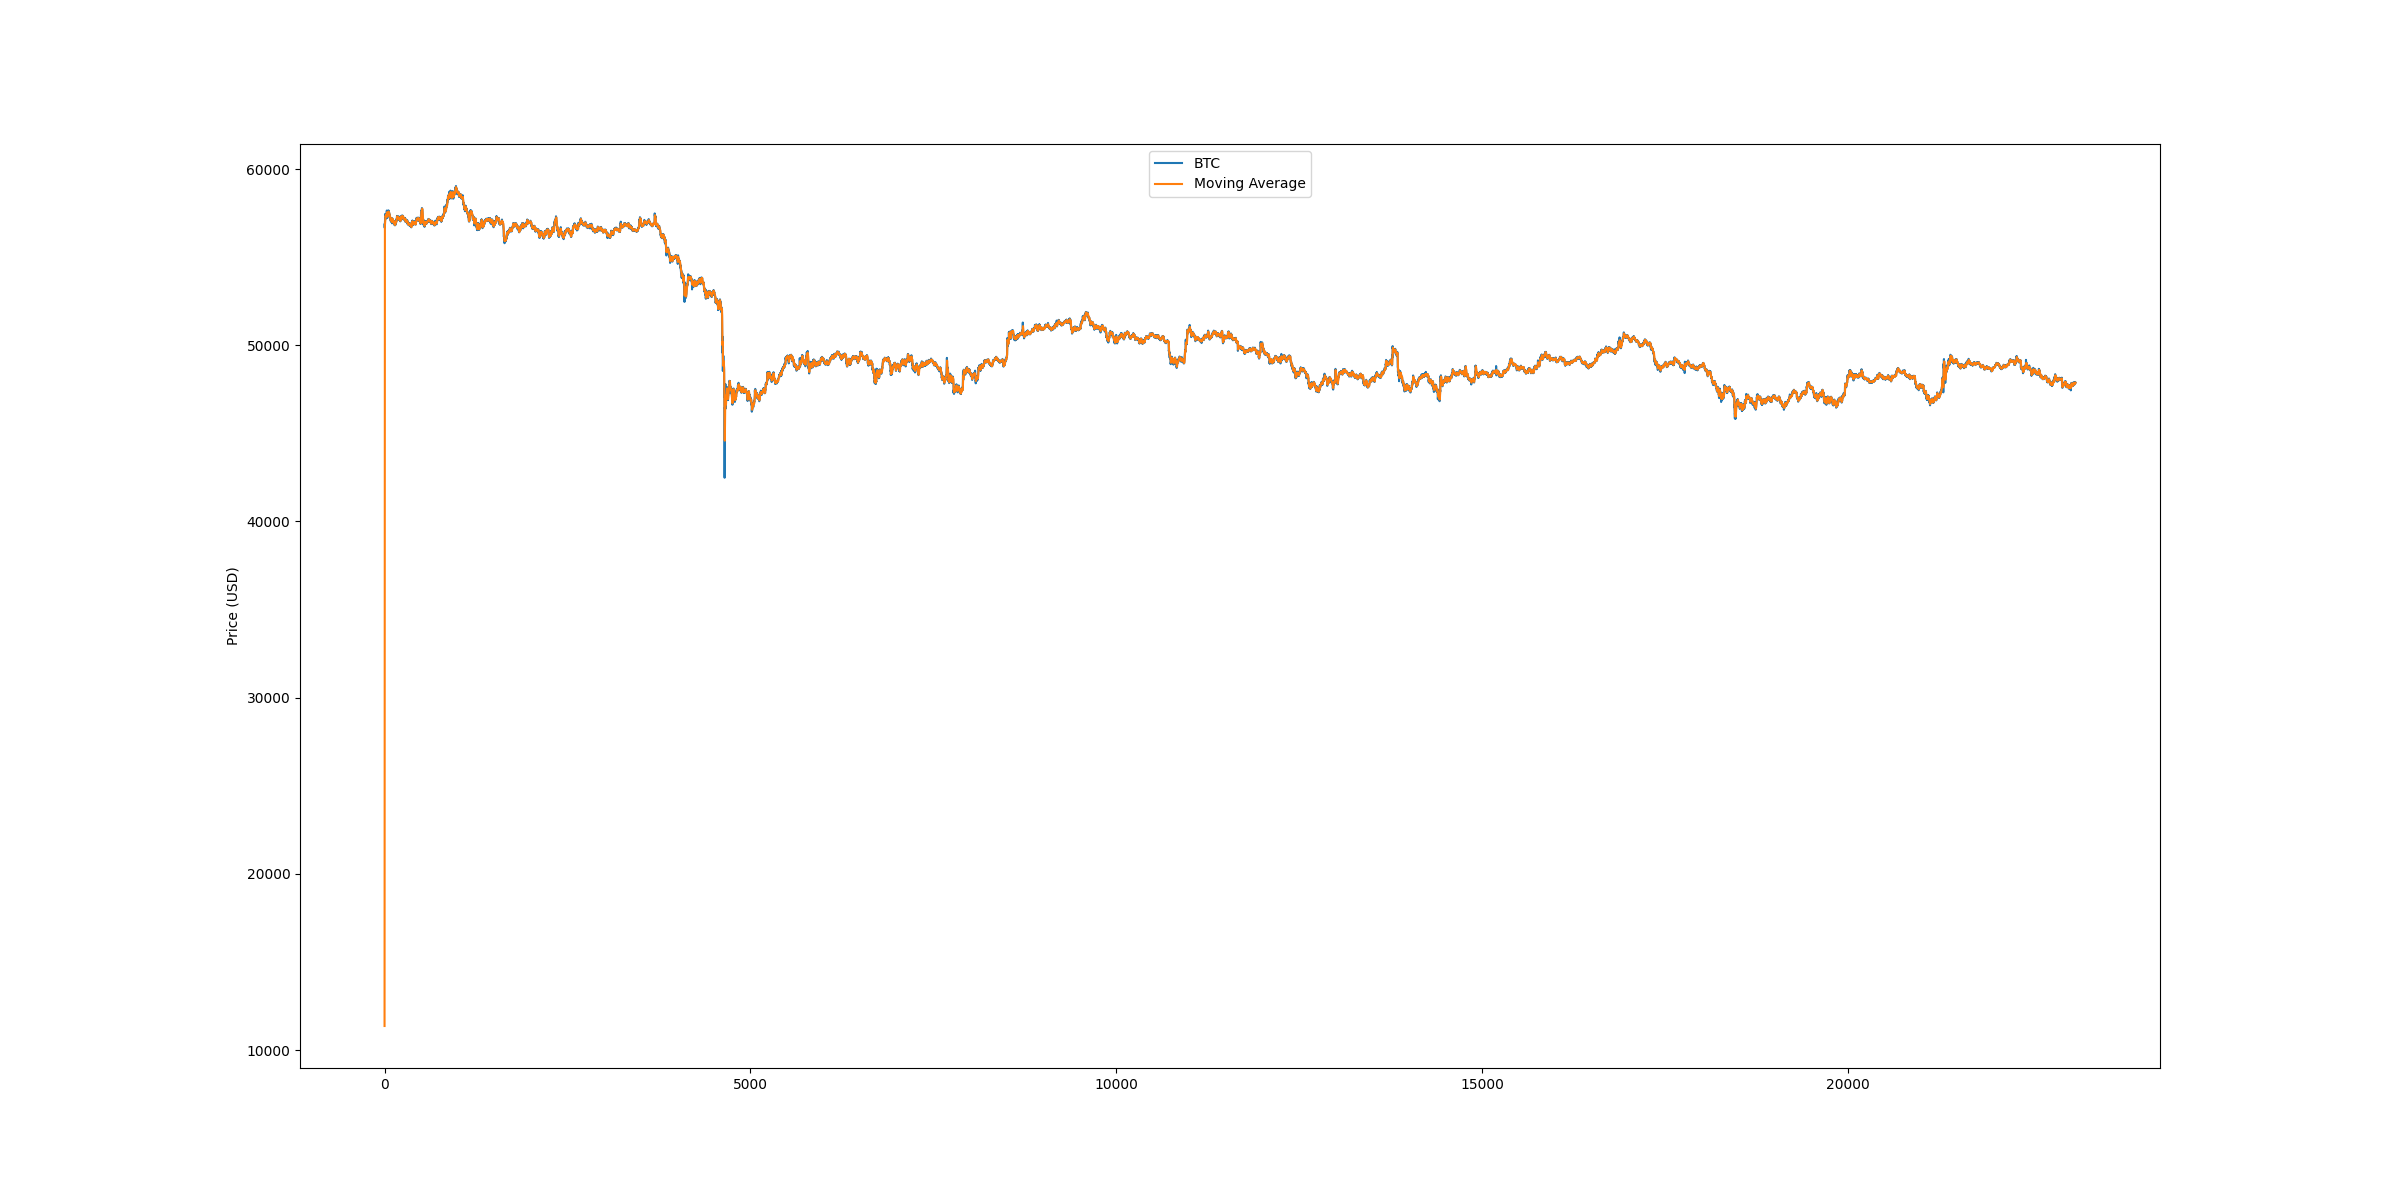
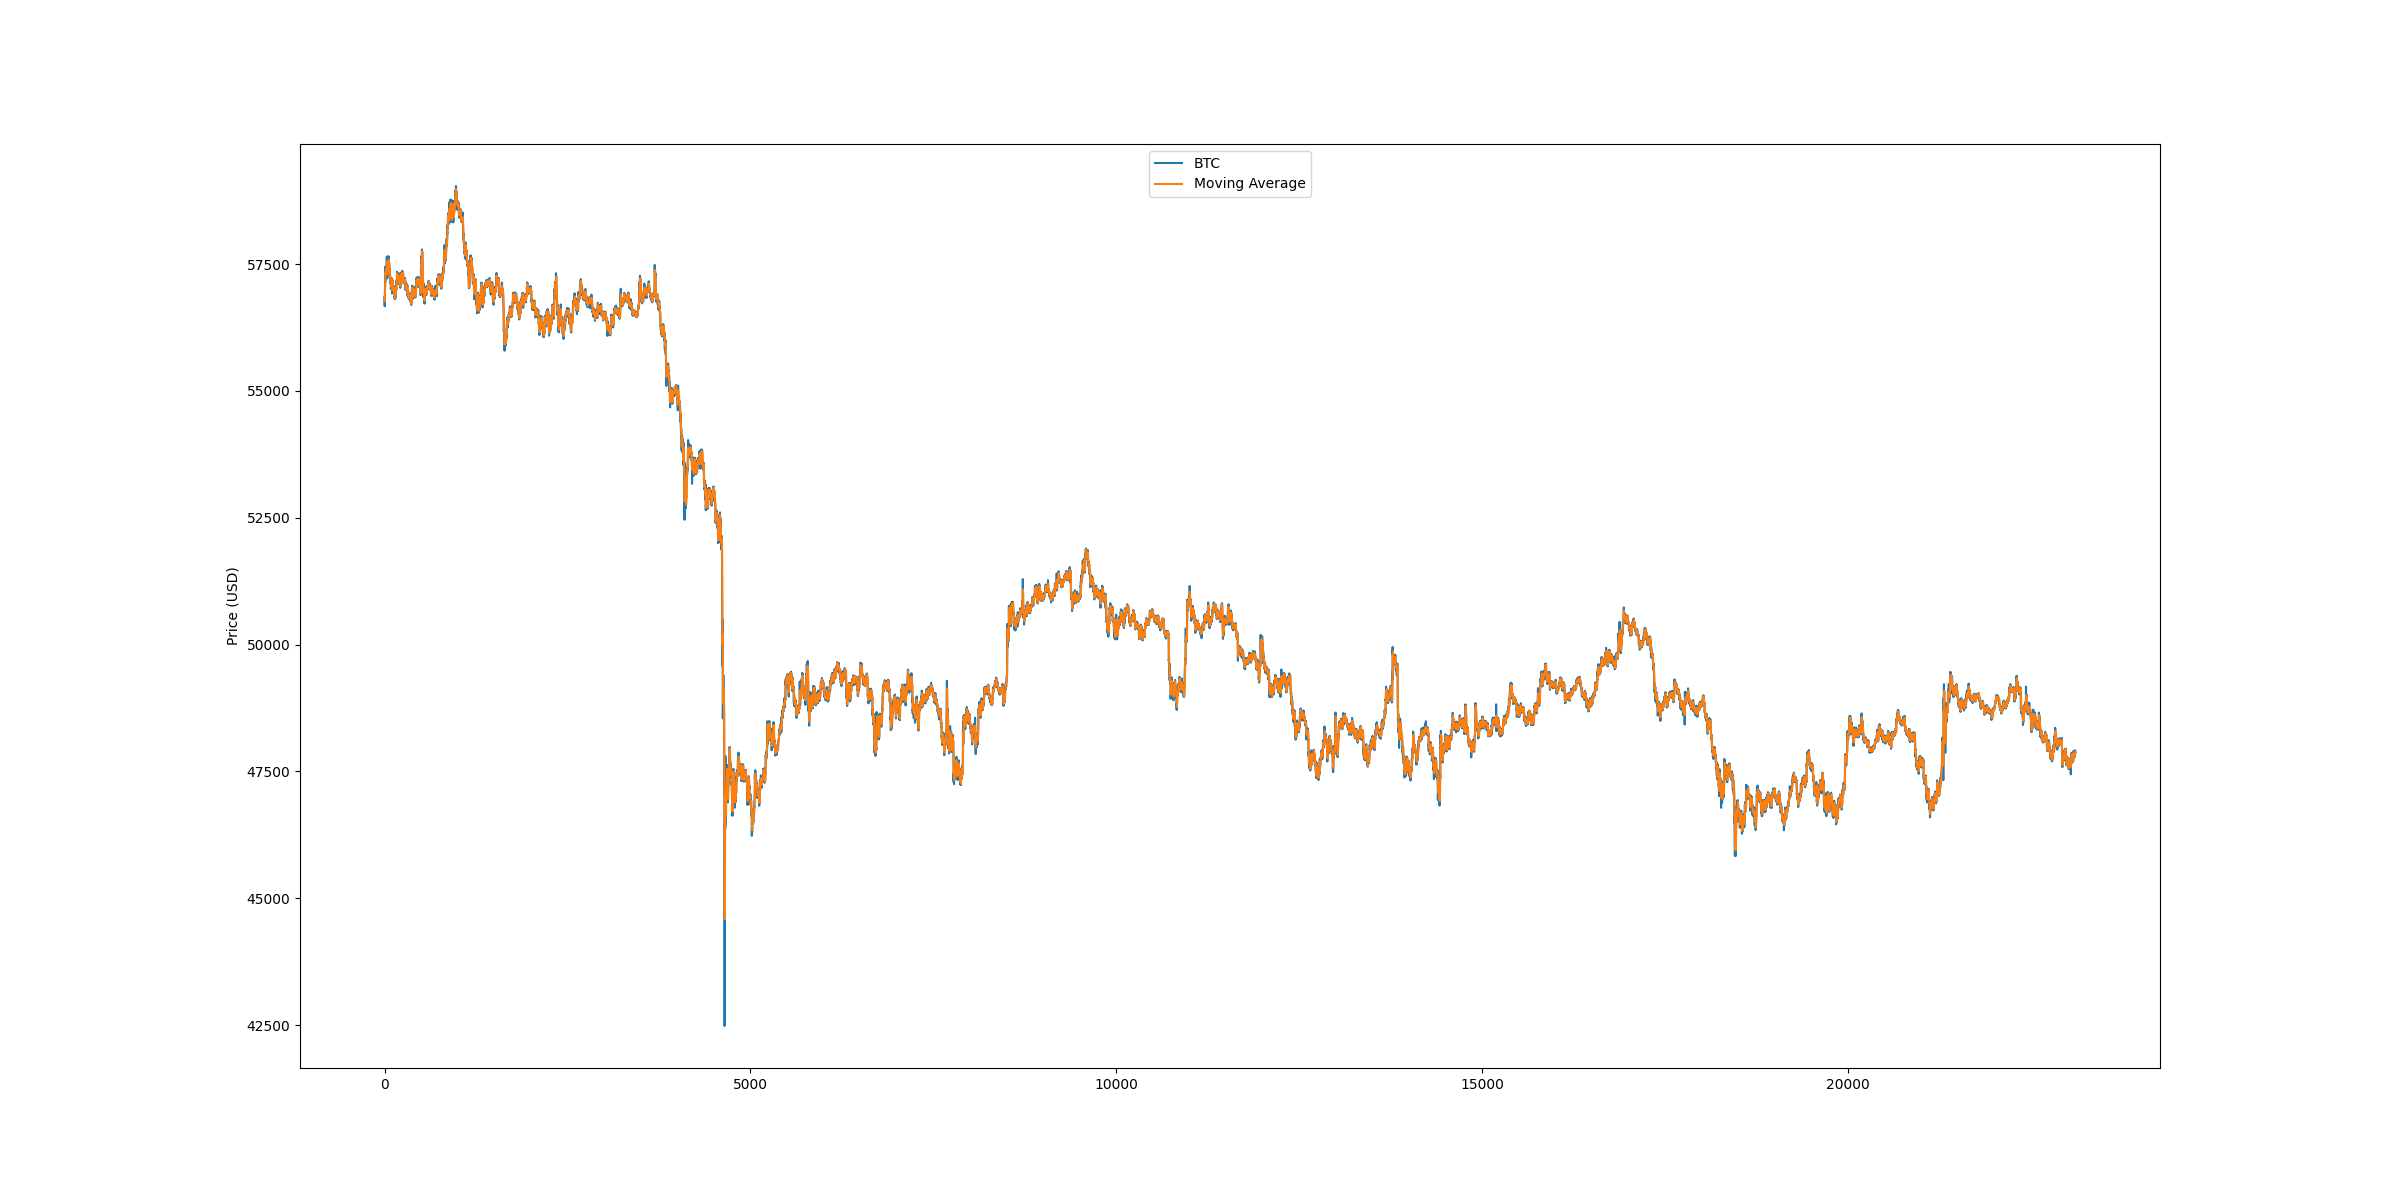
zoom in on mva

diff --git a/src/backtest.py b/src/backtest.py
@@ -34,10 +34,10 @@ def csv_to_dataframe(filename):
 
 if __name__ == '__main__':
 
-    strat = Strategy(5)
+    strat = Strategy(10)
     df = pd.read_csv('BTCUSDT_MinuteBars.csv')
 
-    start_usd = 10**9
+    start_usd = 1000
     start_btc = start_usd / df["close"][0]
 
     usd = start_usd
@@ -53,7 +53,9 @@ if __name__ == '__main__':
         action = strat.take_action(float(price))
 
         btc_price.append(price)
-        mvas.append(strat.get_mva())
+
+        mva = strat.get_mva()
+        mvas.append(mva)
         
         if usd and action == 'BUY':
             btc = usd / price
@@ -72,8 +74,8 @@ if __name__ == '__main__':
         print("--------------\n")
 
     plt.figure(figsize=(24, 12))
-    plt.plot(range(len(btc_price)), btc_price, label="BTC")
-    plt.plot(range(len(mvas)), mvas, label="Moving Average")
+    plt.plot(range(360), btc_price[:360], label="BTC")
+    plt.plot(range(360), mvas[:360], label="Moving Average")
     plt.ylabel("Price (USD)")
     plt.legend(loc='upper center')
     plt.savefig(f'btc_{strat.get_period()}_period_moving_average.png')

diff --git a/src/strategy.py b/src/strategy.py
@@ -41,4 +41,4 @@ class Strategy:
         return self.period
 
     def get_mva(self):
-        return self.sum / self.period
+        return self.sum / self.period if len(self.window) == self.period else None
